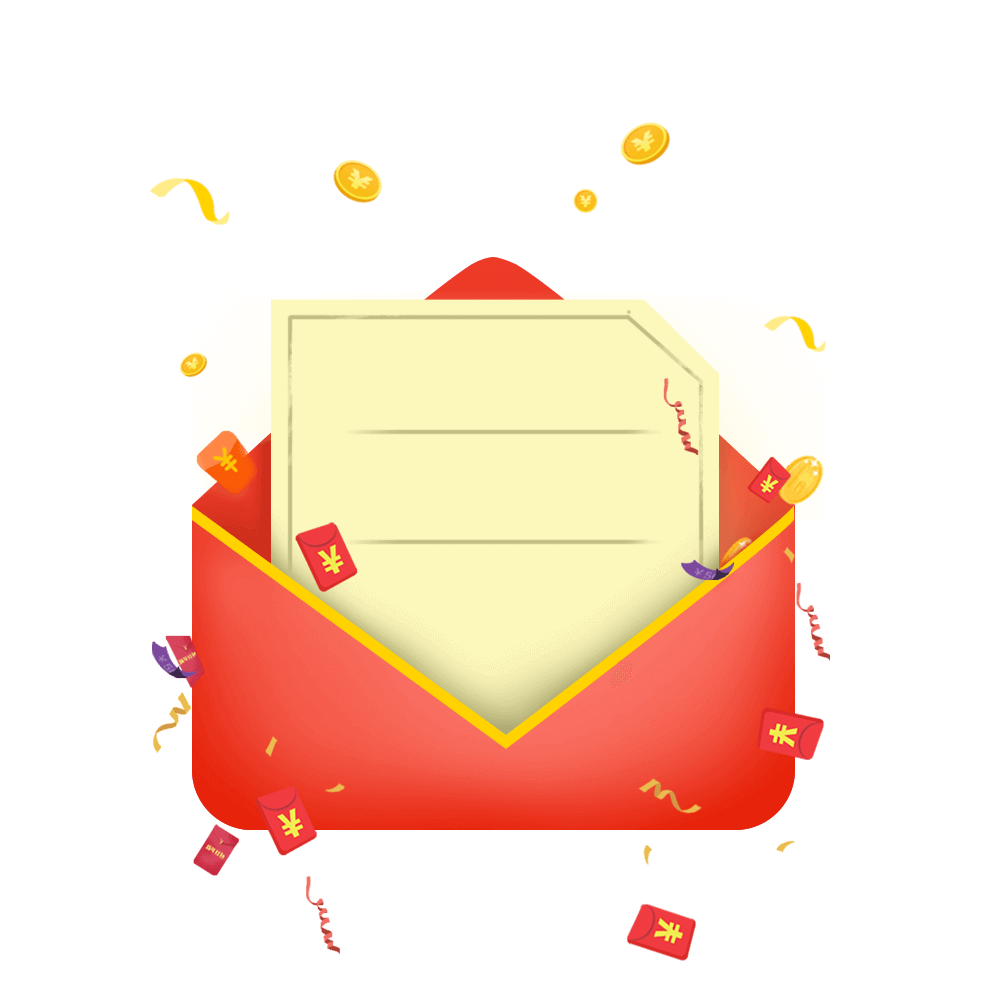
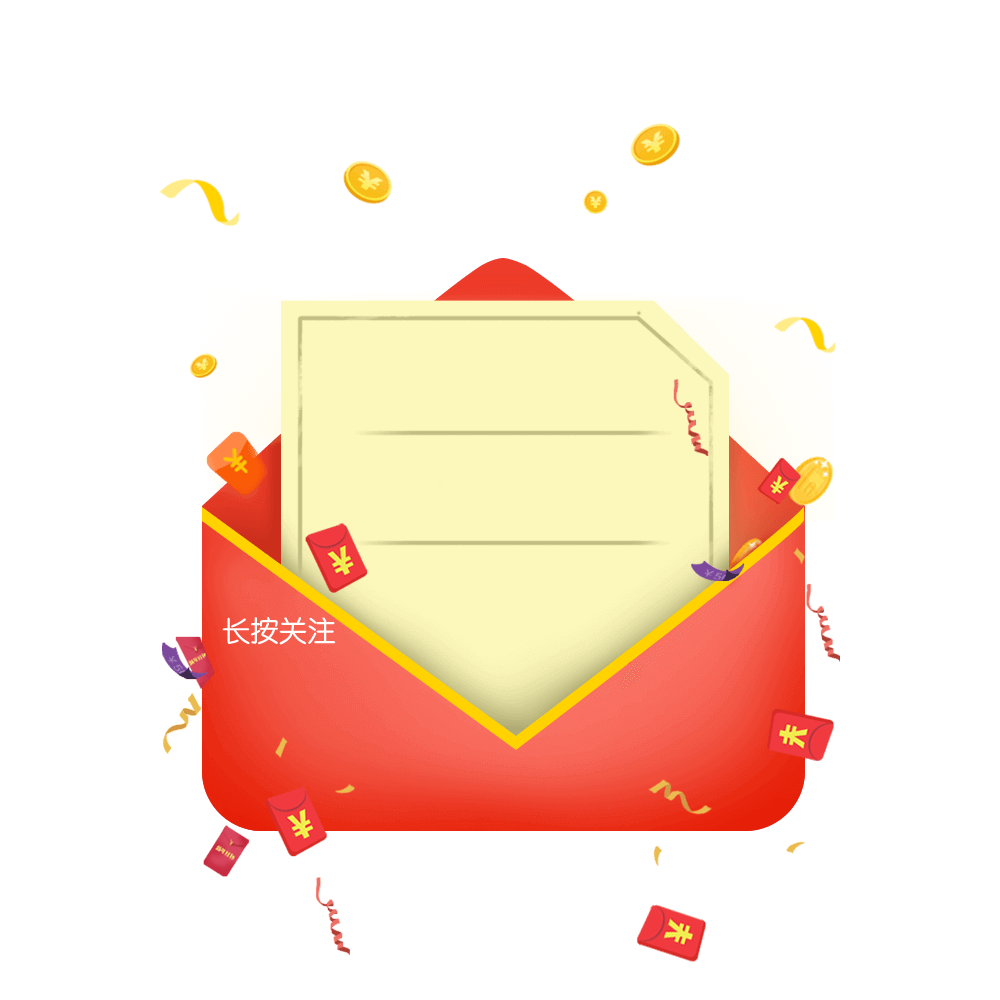
红包动画

diff --git a/redwars0419/src/components/winprize/index.vue b/redwars0419/src/components/winprize/index.vue
@@ -22,6 +22,9 @@
             <img :src="awi031">
           </div>
           <div class="a0000"></div>
+          <div class="wp-twocode">
+            <img :src="awi036" class="imgw100">
+          </div>
           <div class="wp-btn1" @click="btnClick">
             <img :src="awi032">
           </div>
@@ -47,6 +50,7 @@ import awi030 from '@/assets/images/aw_030.png'
 import awi031 from '@/assets/images/aw_031.png'
 import awi032 from '@/assets/images/aw_032.png'
 import awi035 from '@/assets/images/aw_035.png'
+import awi036 from '@/assets/images/aw_036.png'
 
 import num0 from '@/assets/images/num0.png'
 import num1 from '@/assets/images/num1.png'
@@ -81,7 +85,8 @@ export default {
       awi030,
       awi031,
       awi032,
-      awi035
+      awi035,
+      awi036
     }
   },
   methods: {
@@ -126,13 +131,12 @@ export default {
   width: 100%;
   height: 100%;
   overflow: hidden;
-  background-color: rgba(0,0,0,.6);
   z-index: 20;
 }
 .wp-box1 {
   position: absolute;
   left: -17%;
-  top: 6%;
+  top: 17%;
   width: 134%;
 }
 .wp-bg,
@@ -152,7 +156,8 @@ export default {
 .wp-p1 img,
 .wp-p2 img,
 .wp-btn1 img,
-.wp-bigred img {
+.wp-bigred img,
+.imgw100 {
   width: 100%;
 }
 .wp-p1 {
@@ -194,6 +199,13 @@ export default {
 .win-ib img {
   height: 100%;
   width: auto;
+}
+.wp-twocode {
+  position: absolute;
+  left: 22.4%;
+  top: 65.6%;
+  right: 65.1%;
+  bottom: 21.6%;
 }
 .diaani-enter-active {
   animation: bounce-in .5s;

diff --git a/redwars0419/src/components/redanimate/index.vue b/redwars0419/src/components/redanimate/index.vue
@@ -171,6 +171,7 @@ export default {
 <style scoped>
 .modal-item {
   z-index: 10;
+  background-color: rgba(0,0,0,.6);
 }
 .modal-item,
 .ani-box {
